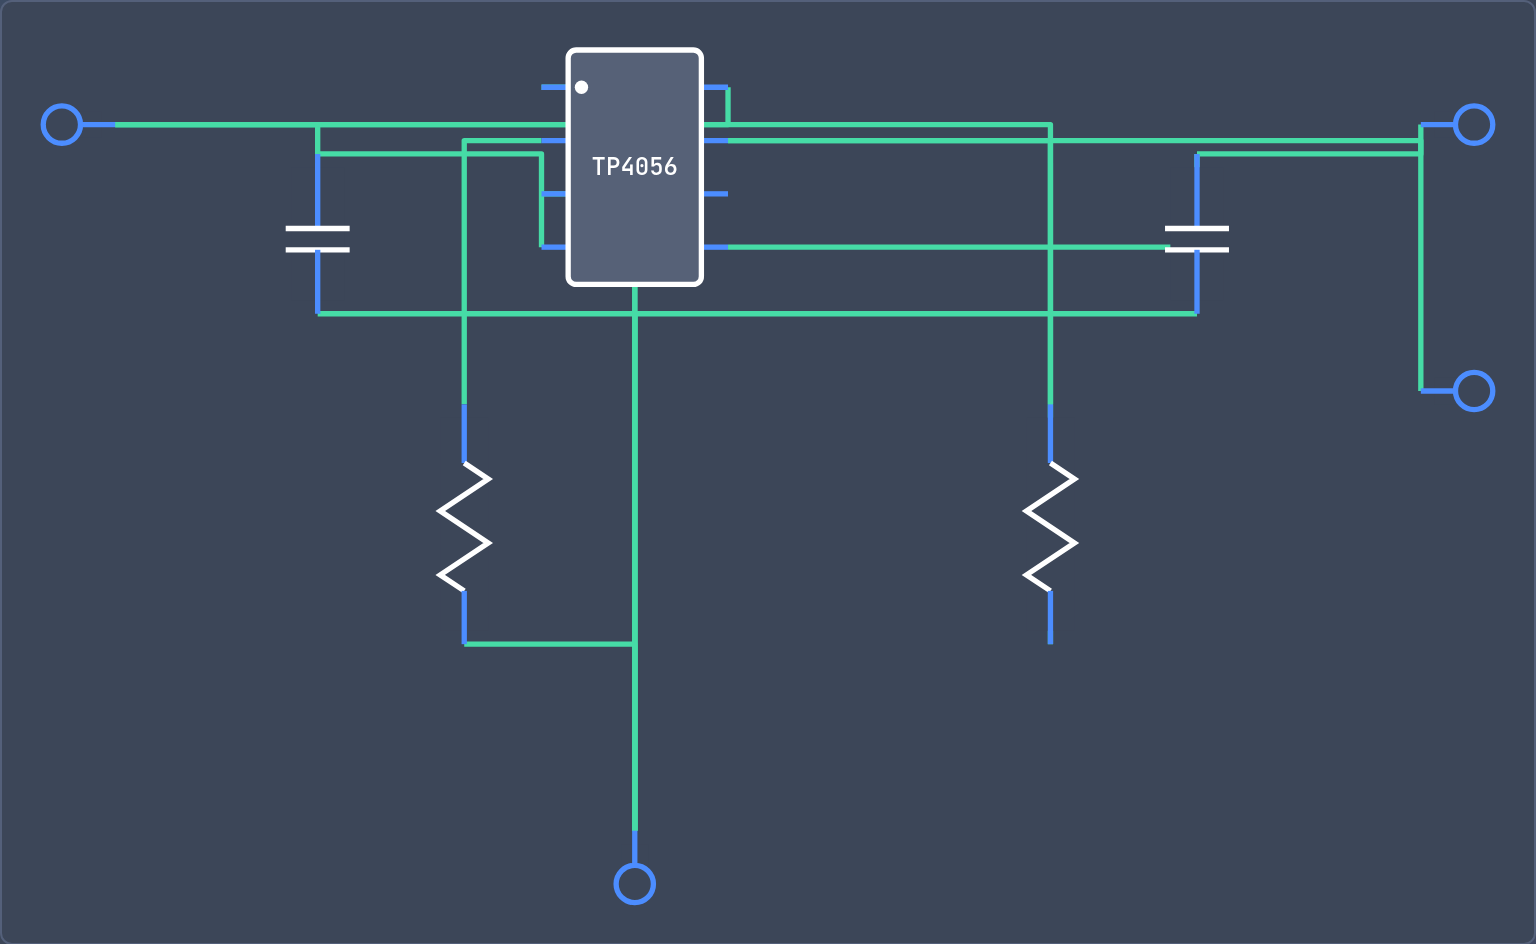
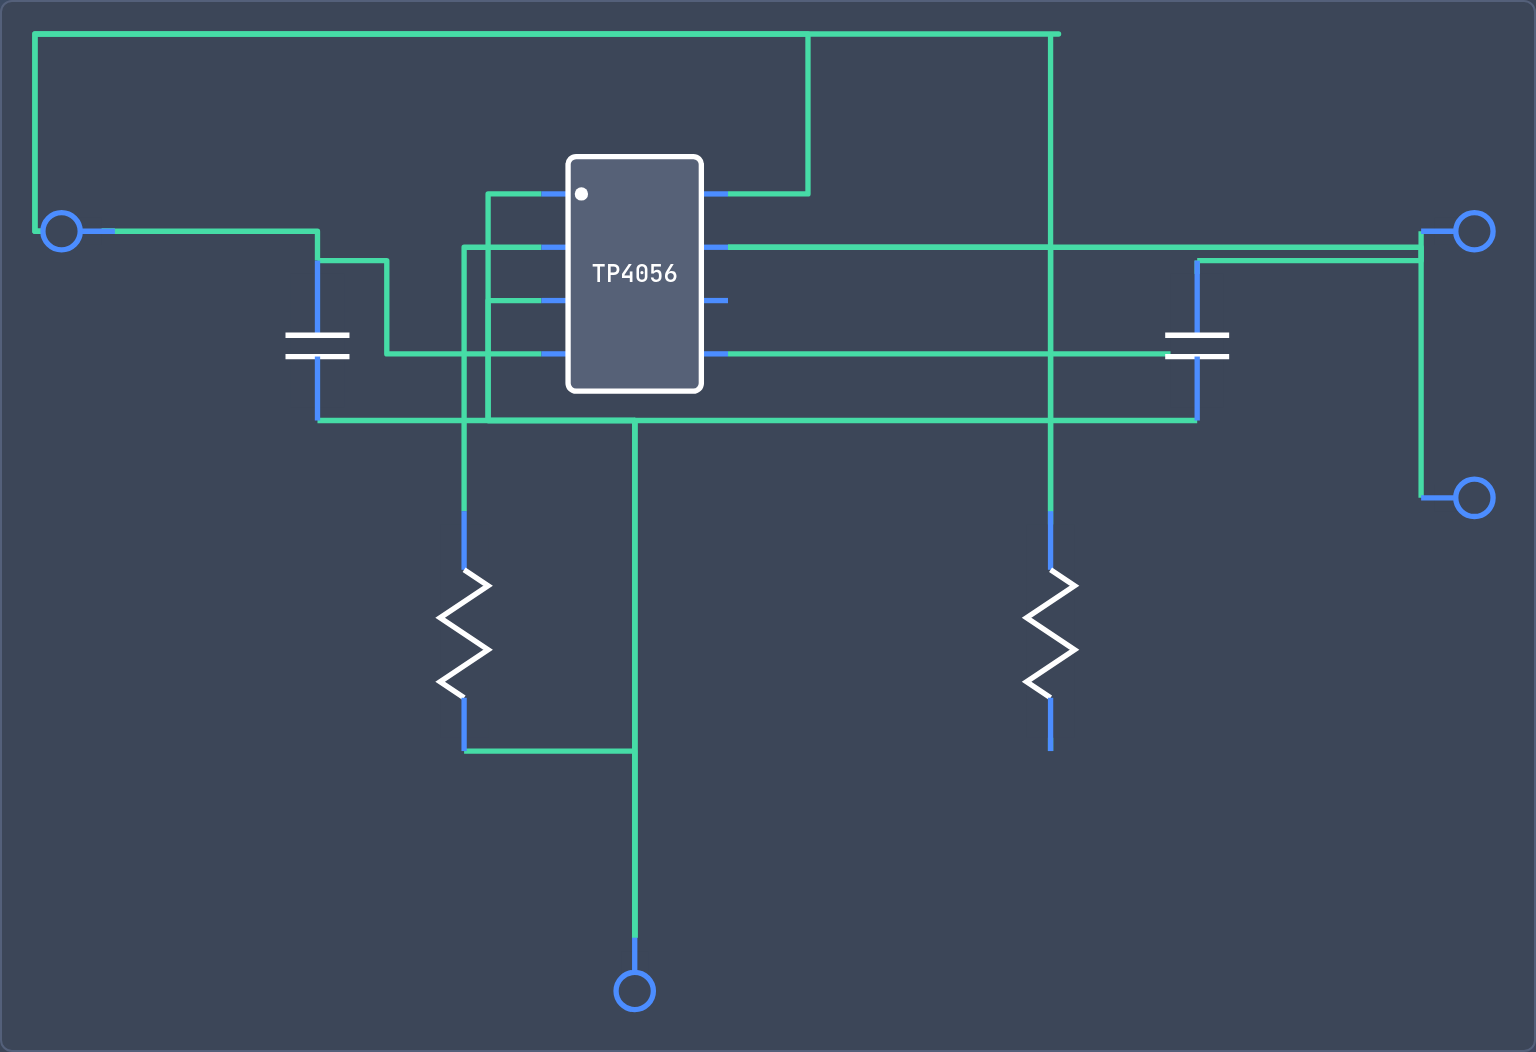
Li-ion charger: reroute every wire in both schematic views
Block view: vin->CE crossed behind the chip body and ended in a
dangling hook; pins 1/3 routed UNDER the body to reach gnd; the
C1->VCC wire hugged the left edge across two pin roots. All explicit
vias now - top rail to CE approached from the right, left pins exit
left.

Discrete view (tp4056): VIN->Q3.E ran straight across RS's body,
RS->Q1.E and Q1.B->RPU went through Q1's circle, R5's wire was drawn
over its own body, the EN bus clipped RZ/RD corners - and the layout
wired RPU upside-down vs the netlist (top pin on DRV instead of VIN,
so the pull-up never visually reached supply). Layout now matches the
netlist exactly.

Verified by stills at both scenes + zoom crops + re-rendered video
frames. liion-teardown.mp4 re-rendered (47.5 s, same narration) and
block-img regenerated - only liion-charger.png changed.

Changed region(s): [[0.0, 0.0307, 0.9688, 0.7373], [0.9062, 0.3686, 1.0, 0.4915], [0.375, 0.9216, 0.4375, 0.9831]]

diff --git a/web/lib/electrace-info.ts b/web/lib/electrace-info.ts
@@ -10,6 +10,7 @@ export const CHANGELOG: ChangeEntry[] = [
   {
     date: "2026-06-12",
     items: [
+      "**Li-ion charger schematics redrawn.** The TP4056 block's drawing routed wires through the chip body and under its pins, and the expand-to-discrete view was worse: wires through transistor symbols, across the sense resistor, and \u2014 embarrassingly \u2014 the base-drive pull-up drawn connected upside-down (the netlist was always right; the picture lied). Every wire is now explicitly routed: clean entries, real junctions, crossings that look like crossings.",
       "**Templates that actually template.** The dashboard's 'Start something new' cards used to create an empty canvas wearing the template's name. Now each one seeds a real, wired, check-clean design from the block library: Power supply (entry \u2192 buck \u2192 LDO, an indicator on each rail), Buck converter, MCU board (regulated rail \u2192 micro \u2192 status LED), and Sensor front-end (thermistor \u2192 amplifier \u2192 filter \u2192 comparator \u2192 alert LED). Blank canvas still means blank. Design thumbnails got real too: cards now show your blocks at their actual positions with their actual wiring \u2014 your design's fingerprint, not a generic placeholder.",
       "**Solver honesty fix.** A block that declares its draw AND models it with real parts (an LED indicator's resistor) was counted twice \u2014 invisible behind a stiff source, but through a 10 k pull-up the phantom draw solved the net to nonsense. Internals that conduct now ARE the load; the declaration steps in only where they can't. Found by our own templates, fixed with a regression test. The 'LDO burns X W' recommendation also now uses your circuit's ACTUAL input rail and load instead of the part's worst-case datasheet numbers \u2014 a 5 V-fed LDO lighting an LED no longer gets accused of burning 4 W.",
       "**New calculator: active filter designer.** Pick an order (2\u20138), a cutoff, and low- or high-pass \u2014 and get the whole Butterworth filter as buildable cascaded Sallen-Key stages: each stage's pole Q, standard E-series component values, and \u2014 the honest part \u2014 the cutoff and Q those snapped parts actually deliver, recomputed per stage. Stages are ordered lowest-Q first (the way you should build them), odd orders get their real-pole RC stage, and orders 7\u20138 warn about the component spread that 4Q\u00b2 demands.",

diff --git a/electrace/src/discrete.ts b/electrace/src/discrete.ts
@@ -541,21 +541,24 @@ export const DISCRETE_LIBRARY: Record<string, DiscreteEquivalent> = {
         { id: "P_gnd", type: "port", ref: "GND", x: 400, y: 405, rot: 90 },
       ],
       wires: [
+        // Routed with explicit vias — the auto-router's straight runs went through Q1/Q3's
+        // circles, across RS's body, and (worse) wired RPU upside-down vs the netlist.
         { from: "P_vcc.1", to: "RS.1" },
-        { from: "P_vcc.1", to: "Q3.E" },
-        { from: "RS.2", to: "Q1.E" },
-        { from: "RS.2", to: "Q3.B" },
+        { from: "P_vcc.1", to: "Q3.E", via: [[60, 212]] },              // down the left edge, not across RS
+        { from: "P_vcc.1", to: "RPU.1", via: [[60, 20], [375, 20]] },   // the pull-up's top really is VIN
+        { from: "RS.2", to: "Q1.E", via: [[275, 70], [275, 150]] },     // around Q1's circle, enter E from the left
+        { from: "RS.2", to: "Q3.B", via: [[240, 70], [240, 220], [150, 220], [150, 182]] }, // B must be approached from the LEFT
         { from: "RS.2", to: "P_prog.1" },
-        { from: "Q1.C", to: "P_bat.1" },
+        { from: "Q1.C", to: "P_bat.1", via: [[320, 60], [560, 60]] },   // BAT runs above, clear of RPU.1
         { from: "D1.2", to: "P_bat.1" },
-        { from: "Q1.B", to: "RPU.1" },
-        { from: "RPU.1", to: "Q3.C" },
+        { from: "Q1.B", to: "RPU.2", via: [[268, 120], [268, 190]] },   // DRV node: base to the pull-up's BOTTOM
+        { from: "Q3.C", to: "Q1.B", via: [[215, 130], [280, 130]] },
         { from: "RPU.2", to: "RD.1" },
         { from: "RD.2", to: "Q2.C" },
         { from: "REN.2", to: "Q2.B" },
         { from: "P_ce.1", to: "REN.1" },
-        { from: "Q4.C", to: "Q2.B", via: [[700, 252], [430, 252]] },
-        { from: "R5.1", to: "Q2.B", via: [[598, 252], [430, 252]] },
+        { from: "Q4.C", to: "Q2.B", via: [[700, 282], [700, 245], [325, 245]] }, // EN bus clear of RD/RZ corners
+        { from: "R5.1", to: "Q2.B", via: [[555, 245], [325, 245]] },    // R5 feeds EN upward, not across its own body
         { from: "D1.1", to: "RZ.1" },
         { from: "RZ.2", to: "Q4.B" },
         { from: "R5.2", to: "Q5.B" },
